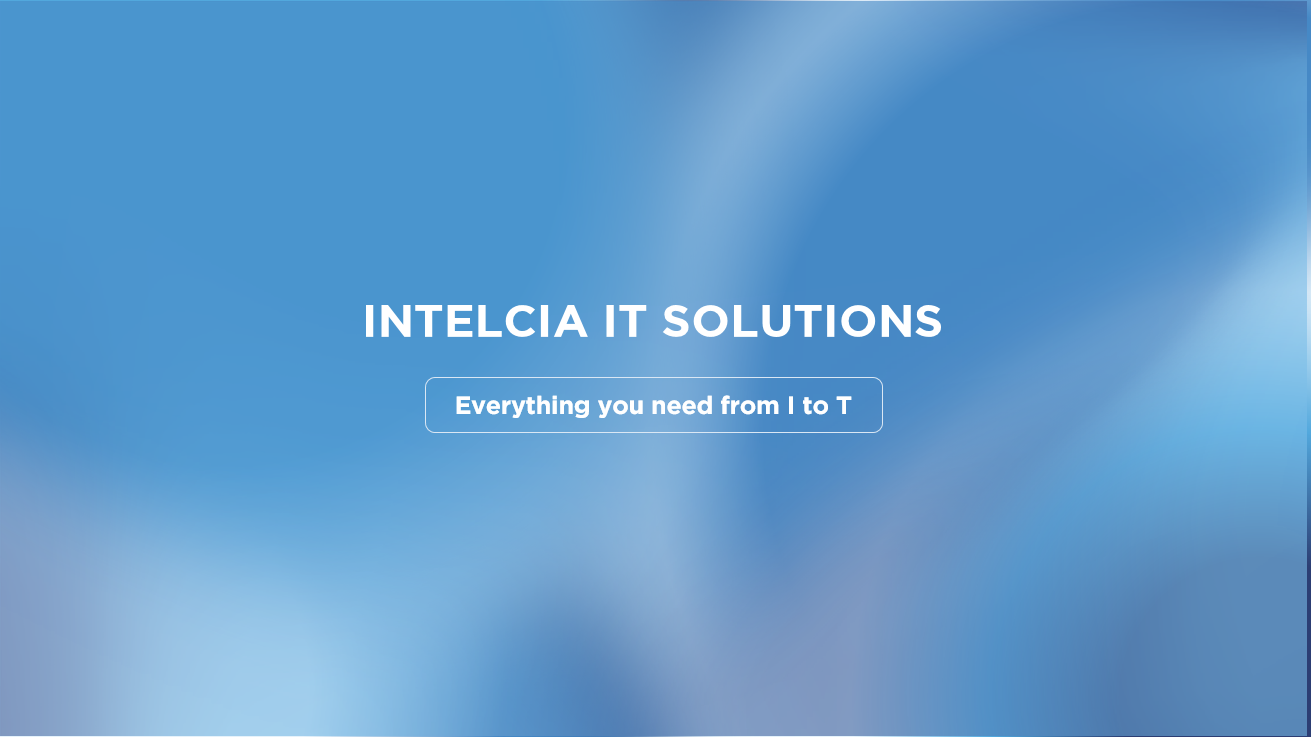
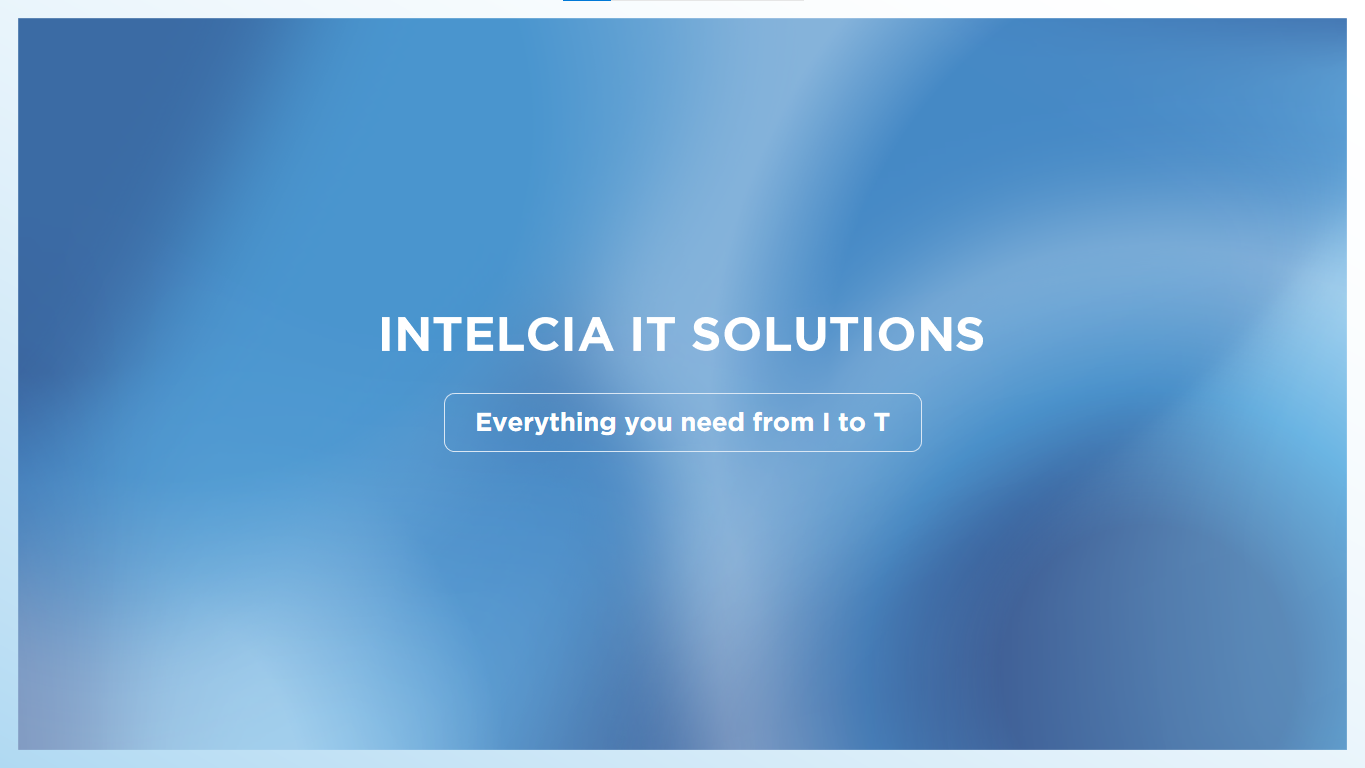
new COMPO PPTX FTTH

diff --git a/app/ftth/utils/exportPPTX.js b/app/ftth/utils/exportPPTX.js
@@ -1,7 +1,6 @@
 import pptxgen from "pptxgenjs";
 import { toPng } from "html-to-image";
 
-// 🔢 Calcule la semaine ISO
 function getWeekNumber(date) {
   const d = new Date(Date.UTC(date.getFullYear(), date.getMonth(), date.getDate()));
   const dayNum = d.getUTCDay() || 7;
@@ -11,7 +10,6 @@ function getWeekNumber(date) {
 }
 
 export async function generatePPTFromGraphs({
-  selectedGraphIds = [],
   graphList = [],
   commentMap = {},
   globalStartDate,
@@ -21,16 +19,17 @@ export async function generatePPTFromGraphs({
   const todayStr = new Date().toLocaleDateString("fr-FR");
   const fileDate = todayStr.replace(/\//g, "-");
 
-  const LOGO_INTELCIA = "/logo-intelcia-small.png";
-  const LOGO_SFR = "/logo_sfr_small.png";
+  const blue = "#0B2F5A";
+  const introBackground = "/ftth_intro.png";
+  const kpiTitleBackground = "/ftth_1.png";
+  const transverseBackground = "/ftth_2.png";
+  const tyBackground = "/ftth_ty.png";
+  const endBackground = "/fin.png";
+  const contentBackground = "/ftth_diapo.png";
 
-  const blue = "#31327e";
-  const lightBlue = "#e6f5f2"; // bleu ciel très clair
-  const footerText = "#1e3a8a";
-
-  // 📆 Période
   let weekStr = "Date";
-  let periodeStr = `Généré le : ${todayStr}`;
+  let dateRangeText = "";
+
   if (globalStartDate && globalEndDate) {
     const start = new Date(globalStartDate);
     const end = new Date(globalEndDate);
@@ -42,139 +41,175 @@ export async function generatePPTFromGraphs({
     }
     const uniqueWeeks = [...new Set(allWeeks)].sort((a, b) => a - b);
     weekStr = `S${uniqueWeeks.join("-")}`;
-    periodeStr = `Période : ${weekStr}\nDu ${start.toLocaleDateString()} au ${end.toLocaleDateString()}\nGénéré le : ${todayStr}`;
+    dateRangeText = `Période : ${weekStr} | Du ${start.toLocaleDateString()} au ${end.toLocaleDateString()}`;
   }
 
-  // 🟦 Couverture
+  // 🟦 Slide 1 – Intro
   const cover = pptx.addSlide();
-  cover.background = { fill: lightBlue };
-  cover.addImage({ path: LOGO_INTELCIA, x: 0.3, y: 0.2, w: 1.7, h: 0.45 });
-  cover.addImage({ path: LOGO_SFR, x: 9.1, y: 0.2, w: 0.5, h: 0.45 });
-
-  cover.addText("📘 Compte-rendu FTTH", {
-    x: 0.5, y: 1.6, w: 9, fontSize: 32, color: blue, bold: true, align: "center",
+  cover.addImage({ path: introBackground, x: 0, y: 0, w: "100%", h: "100%" });
+  cover.addText("Comité Opérationnel Bimensuel\nEA FTTH", {
+    x: 0.5, y: 2.1, w: 9, h: 1.0, align: "center", fontSize: 30, bold: true, color: "FFFFFF"
   });
-  cover.addText(periodeStr, {
-    x: 1, y: 3.2, w: 8, fontSize: 14, color: "#1f2937", align: "center",
-  });
-  cover.addText("Dashboard FTTH – Plateforme MyIT", {
-    x: 1, y: 4.2, w: 8, fontSize: 16, color: blue, bold: true, align: "center",
-  });
-
-
-// 📊 Slide KPI
-const kpiSlide = pptx.addSlide();
-kpiSlide.addImage({ path: LOGO_INTELCIA, x: 0.3, y: 0.2, w: 1.7, h: 0.45 });
-kpiSlide.addImage({ path: LOGO_SFR, x: 9.1, y: 0.2, w: 0.5, h: 0.45 });
-
-kpiSlide.addText("📊 KPI – Indicateurs Clés de Performance", {
-  x: 0.5, y: 0.7, w: 9, fontSize: 20, bold: true, align: "center", color: blue,
-});
-
-const kpiIds = [
-  "kpi-backlog-j1",
-  "kpi-backlog-j",
-  "kpi-objectif",
-  "kpi-dossiers-traites",
-];
-
-const kpiImages = await Promise.all(
-  kpiIds.map(async (id) => {
-    const el = document.getElementById(id);
-    if (!el) return null;
-    try {
-      return await toPng(el, { backgroundColor: "#ffffff" });
-    } catch {
-      return null;
-    }
-  })
-);
-
-const positions = [
-  { x: 0.6, y: 1.3 }, { x: 5.0, y: 1.3 },
-  { x: 0.6, y: 2.6 }, { x: 5.0, y: 2.6 }
-];
-
-kpiImages.forEach((img, i) => {
-  if (img) {
-    kpiSlide.addImage({
-      data: img,
-      ...positions[i],
-      w: 4.2,
-      h: 1.4,
+  if (dateRangeText) {
+    cover.addShape(pptx.ShapeType.rect, {
+      x: 2.2, y: 3.3, w: 5.6, h: 0.6, fill: { color: "#2E2E2E" }, roundRadius: 6
+    });
+    cover.addText(dateRangeText, {
+      x: 2.2, y: 3.3, w: 5.6, h: 0.6, align: "center", fontSize: 14, color: "FFFFFF", bold: true
     });
   }
+  cover.addText(`Édité le : ${todayStr}`, {
+    x: 7.0, y: 5.2, w: 2.8, h: 0.3, align: "right", fontSize: 10, color: "D0D0D0"
+  });
+
+  // 🟦 Slide 2 – Titre KPI
+  const kpiTitle = pptx.addSlide();
+  kpiTitle.addImage({ path: kpiTitleBackground, x: 0, y: 0, w: "100%", h: "100%" });
+  kpiTitle.addText("KPIs Opérationnels", {
+    x: 1, y: 2.3, w: 9, h: 1, align: "center", fontSize: 60, bold: true, color: "FFFFFF"
+  });
+
+  // 🟦 Slide 3 – Objectif
+  await createGraphSlide(pptx, "graph-objectif", graphList, commentMap, contentBackground, blue);
+
+  // 🟦 Slide 4 – Top 5 Règles par jour
+  await createGraphSlide(pptx, "graph-top-regles-par-jour", graphList, commentMap, contentBackground, blue);
+
+  // 🟦 Slide 5 – Entrants / Sortants
+  await createGraphSlide(pptx, "graph-entrants-sortants", graphList, commentMap, contentBackground, blue);
+
+  // 🟦 Slide 6 – Suivi Transverse
+  const transverse = pptx.addSlide();
+  transverse.addImage({ path: transverseBackground, x: 0, y: 0, w: "100%", h: "100%" });
+  transverse.addText("Suivi Transverse", {
+    x: 1, y: 2.3, w: 9, h: 1, align: "center", fontSize: 60, bold: true, color: "FFFFFF"
+  });
+
+// 🟦 Slide 7 – Synthèse opérationnelle
+const synthese = pptx.addSlide();
+synthese.addImage({ path: contentBackground, x: 0, y: 0, w: "100%", h: "100%" });
+
+// ✅ Titre bien aligné comme les autres
+synthese.addText("Synthèse opérationnelle", {
+  x: 0.6, y: 0.7, w: 8, h: 0.4,
+  fontSize: 20, bold: true, color: blue
 });
 
-// ✅ 🔽 ICI TU AJOUTES ton commentaire (modifiable dynamiquement si tu veux)
-kpiSlide.addText(`💬 [Aucun commentaire fourni]`, {
-  x: 0.7,
-  y: 4.25,
-  w: 8.5,
-  fontSize: 12,
-  italic: true,
-  color: "#4b5563",
-});
+// 📐 Dimensions & espacement réduit
+const cardW = 2.9;
+const cardH = 3.3;
+const cardY = 1.5;
+const headerH = 0.4;
+const cardSpacing = 0.2; // ⬅ Réduction plus forte
+const totalWidth = 3 * cardW + 2 * cardSpacing;
+const startX = (10 - totalWidth) / 2; // Centrage horizontal
 
-// ✅ Footer harmonisé
-kpiSlide.addText("Dashboard FTTH – Plateforme MyIT", {
-  x: 3.9, y: 5.5, w: 10, fontSize: 10, align: "center", color: "#1d4ed8", bold: true,
+const bodyY = cardY + headerH + 0.2;
+const bulletText = Array(5).fill("• Saisissez votre point").join("\n\n");
+
+// 🔁 Fonction pour les cartes stylisées
+function addStyledCard(slide, { x, headerColor, title }) {
+  slide.addShape(pptx.ShapeType.rect, {
+    x, y: cardY, w: cardW, h: cardH,
+    fill: { color: "#ffffff" },
+    line: { color: headerColor, width: 1.5 }
+  });
+
+  slide.addShape(pptx.ShapeType.rect, {
+    x, y: cardY, w: cardW, h: headerH,
+    fill: { color: headerColor }
+  });
+
+  slide.addText(title, {
+    x: x + 0.1, y: cardY + 0.05, w: cardW - 0.2, h: 0.3,
+    fontSize: 12, bold: true, color: "#ffffff", align: "center"
+  });
+
+  slide.addText(bulletText, {
+    x: x + 0.2, y: bodyY, w: cardW - 0.4, h: cardH - headerH - 0.4,
+    fontSize: 11, color: "#1f2937", lineSpacingMultiple: 1.5
+  });
+}
+
+// 📦 Cartes centrées et rapprochées
+addStyledCard(synthese, {
+  x: startX, headerColor: "#ef4444", title: "Faits marquants"
+});
+addStyledCard(synthese, {
+  x: startX + cardW + cardSpacing, headerColor: "#10b981", title: "Amélioration continue"
+});
+addStyledCard(synthese, {
+  x: startX + 2 * (cardW + cardSpacing), headerColor: "#facc15", title: "Points d’attention"
 });
 
   
-  // 📈 Slides des graphes
-  for (const id of selectedGraphIds || []) {
-    const node = document.querySelector(`#canvas-${id}`);
-    if (!node) continue;
+  // 🟦 Slide 8 – Merci
+  const tySlide = pptx.addSlide();
+  tySlide.addImage({ path: tyBackground, x: 0, y: 0, w: "100%", h: "100%" });
 
-    try {
-      const image = await toPng(node, { backgroundColor: "#ffffff" });
-      const label = graphList.find((g) => g.id === id)?.label || id;
-      const comment = commentMap[id]?.trim() || "[Aucun commentaire fourni]";
+  // 🟦 Slide 9 – Fin
+  const end = pptx.addSlide();
+  end.addImage({ path: endBackground, x: 0, y: 0, w: "100%", h: "100%" });
 
-      const slide = pptx.addSlide();
-      slide.addImage({ path: LOGO_INTELCIA, x: 0.3, y: 0.2, w: 1.7, h: 0.45 });
-      slide.addImage({ path: LOGO_SFR, x: 9.1, y: 0.2, w: 0.5, h: 0.45 });
-
-      slide.addText(`📊 ${label}`, {
-        x: 0.5, y: 0.8, w: 9, fontSize: 18, bold: true, align: "center", color: "#1e40af",
-      });
-
-      slide.addImage({
-        data: image,
-        x: 2.5,
-        y: 1.2,
-        w: 5,
-        h: 3.3,
-      });
-
-      slide.addText(`💬 ${comment}`, {
-        x: 0.7, y: 4.5, w: 8.5, fontSize: 12, italic: true, color: "#4b5563",
-      });
-
-      slide.addText("Dashboard FTTH – Plateforme MyIT", {
-        x: 3.9, y: 5.5, w: 10, fontSize: 10, align: "center", color: "#1d4ed8", bold: true,
-      });
-    } catch (err) {
-      console.error("Erreur slide", id, err);
-    }
-  }
-
-  // ✅ Slide de fin stylée
-  const fin = pptx.addSlide();
-  fin.background = { fill: "#f3f4f6" };
-  fin.addImage({ path: LOGO_INTELCIA, x: 0.3, y: 0.2, w: 1.7, h: 0.45 });
-  fin.addImage({ path: LOGO_SFR, x: 9.1, y: 0.2, w: 0.5, h: 0.45 });
-
-  fin.addText("✅ Merci pour votre attention", {
-    x: 0.5, y: 2.2, w: 9, fontSize: 30, bold: true, align: "center", color: "#059669",
-  });
-
-  fin.addText("📊 Rapport généré via la plateforme MyIT – Dashboard FTTH", {
-    x: 0.5, y: 3.6, w: 9, fontSize: 14, align: "center", color: footerText,
-  });
-
+  // 💾 Génération du fichier
   await pptx.writeFile({
-    fileName: `Compte_rendu_FTTH_(${weekStr})_${fileDate}.pptx`,
+    fileName: `COMOP FTTH (${weekStr}) ${fileDate}.pptx`,
   });
+}
+
+// 🔁 Fonction utilitaire pour les slides de graphes
+async function createGraphSlide(pptx, id, graphList, commentMap, background, blue) {
+  const el = document.querySelector(`#canvas-${id}`);
+  if (!el) return;
+
+  try {
+    const image = await toPng(el, { backgroundColor: "#ffffff" });
+    const label = graphList.find((g) => g.id === id)?.label || id;
+    const comment = commentMap[id]?.trim() || "[Aucun commentaire ajouté]";
+    const slide = pptx.addSlide();
+
+    slide.addImage({ path: background, x: 0, y: 0, w: "100%", h: "100%" });
+    slide.addText(label, {
+      x: 0.5, y: 0.7, w: 9.0, h: 0.4, fontSize: 18, bold: true, color: blue
+    });
+
+    const graphX = 0.8, graphY = 1.5, graphW = 5.0, graphH = 2.9;
+    slide.addShape(pptx.ShapeType.roundRect, {
+      x: graphX - 0.1, y: graphY - 0.1, w: graphW + 0.2, h: graphH + 0.2,
+      fill: { color: "#ffffff" },
+      line: { color: "#d1d5db", width: 1 },
+      roundRadius: 5,
+    });
+    slide.addImage({ data: image, x: graphX, y: graphY, w: graphW, h: graphH });
+
+    const commentX = 6.0, commentY = 1.4, commentW = 3.0, commentH = 3.2;
+    slide.addShape(pptx.ShapeType.roundRect, {
+      x: commentX, y: commentY, w: commentW, h: commentH,
+      fill: { color: "#ffffff" },
+      line: { color: "#DDEEFF", width: 1 },
+      shadow: { type: "outer", blur: 1, offset: 1, angle: 45, color: "E0E0E0" }
+    });
+    slide.addShape(pptx.ShapeType.rect, {
+      x: commentX, y: commentY, w: commentW, h: 0.4,
+      fill: { color: "#F0F5FF" },
+      line: { color: "#DDEEFF", width: 1 }
+    });
+    slide.addText("💬 Analyse & Commentaires", {
+      x: commentX + 0.1, y: commentY + 0.05, w: commentW - 0.2, h: 0.3,
+      fontSize: 13, bold: true, color: blue, align: "center"
+    });
+    slide.addText([
+      { text: "Observations clés:", options: { fontSize: 11, color: blue, bold: true, breakLine: true } },
+      { text: "• ", options: { fontSize: 11, color: "#4B5563" } },
+      { text: comment, options: { fontSize: 11, color: "#4B5563" } }
+    ], {
+      x: commentX + 0.2,
+      y: commentY + 0.5,
+      w: commentW - 0.4,
+      h: commentH - 0.6,
+      valign: "top"
+    });
+  } catch (err) {
+    console.error("Erreur slide", id, err);
+  }
 }

diff --git a/app/arthuis/utils/exportPPTX.js b/app/arthuis/utils/exportPPTX.js
@@ -87,7 +87,7 @@ export async function generatePPTFromImages(imageList, startDate = null, endDate
 
   // --- Préchargement des images de fond
   const introBackgroundUrl = "/introduction.png";
-  const contentBackgroundUrl = "/page_principal.png";
+  const contentBackgroundUrl = "/ftth_diapo.png";
   const finalImageUrl = "/fin.png";
 
   let introBackgroundBase64 = null;

diff --git a/app/dsl/utils/exportPPTX.js b/app/dsl/utils/exportPPTX.js
@@ -87,7 +87,7 @@ export async function generatePPTFromImages(imageList, startDate = null, endDate
 
   // --- Préchargement des images de fond
   const introBackgroundUrl = "/introduction.png";
-  const contentBackgroundUrl = "/page_principal.png";
+  const contentBackgroundUrl = "/ftth_diapo.png";
   const finalImageUrl = "/fin.png";
 
   let introBackgroundBase64 = null;

diff --git a/app/earf/utils/exportPPTX.js b/app/earf/utils/exportPPTX.js
@@ -87,7 +87,7 @@ export async function generatePPTFromImages(imageList, startDate = null, endDate
 
   // --- Préchargement des images de fond
   const introBackgroundUrl = "/introduction.png";
-  const contentBackgroundUrl = "/page_principal.png";
+  const contentBackgroundUrl = "/ftth_diapo.png";
   const finalImageUrl = "/fin.png";
 
   let introBackgroundBase64 = null;

diff --git a/app/fttb/utils/exportPPTX.js b/app/fttb/utils/exportPPTX.js
@@ -87,7 +87,7 @@ export async function generatePPTFromImages(imageList, startDate = null, endDate
 
   // --- Préchargement des images de fond
   const introBackgroundUrl = "/introduction.png";
-  const contentBackgroundUrl = "/page_principal.png";
+  const contentBackgroundUrl = "/ftth_diapo.png";
   const finalImageUrl = "/fin.png";
 
   let introBackgroundBase64 = null;

diff --git a/app/hispeed/utils/exportPPTX.js b/app/hispeed/utils/exportPPTX.js
@@ -87,7 +87,7 @@ export async function generatePPTFromImages(imageList, startDate = null, endDate
 
   // --- Préchargement des images de fond
   const introBackgroundUrl = "/introduction.png";
-  const contentBackgroundUrl = "/page_principal.png";
+  const contentBackgroundUrl = "/ftth_diapo.png";
   const finalImageUrl = "/fin.png";
 
   let introBackgroundBase64 = null;
